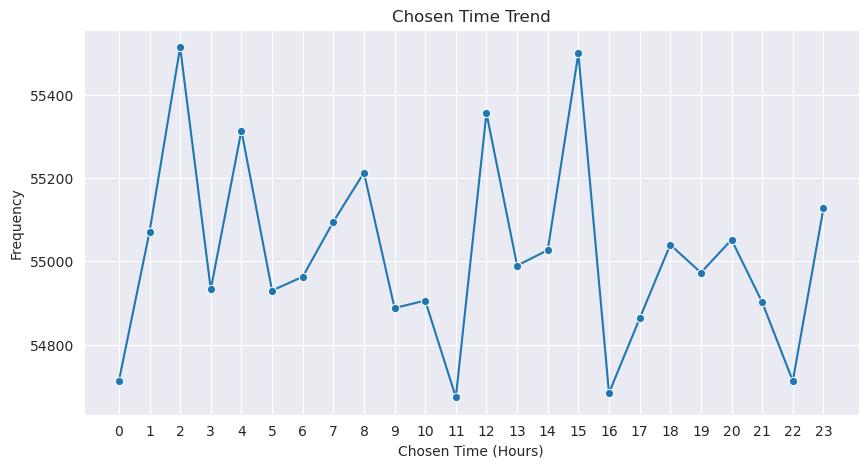
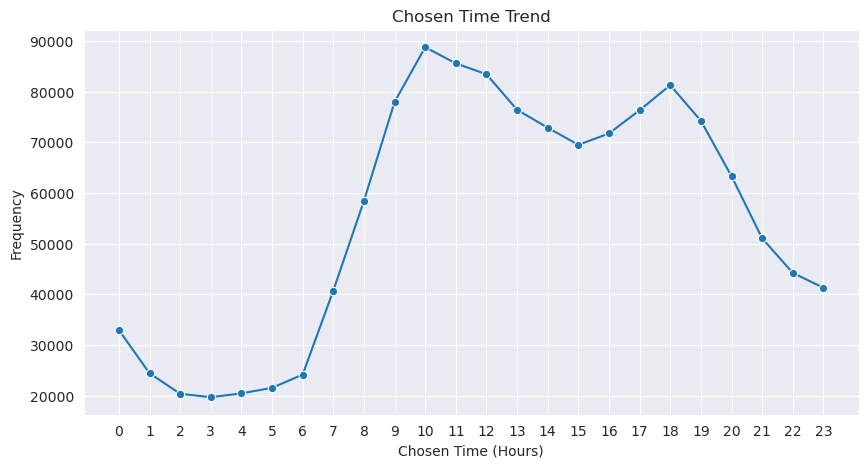
Fixed the time distribution to depict reality

diff --git a/post_generation_analysis/correct_traffic.py b/post_generation_analysis/correct_traffic.py
@@ -1,0 +1,68 @@
+from pymongo import MongoClient, UpdateOne
+import numpy as np
+import multiprocessing
+
+client = MongoClient("mongodb://sih24:sih24@localhost:27017/sih24?authSource=sih24")
+db = client["map_matching"]
+collection = db["paths_tree"]
+
+traffic_weights = np.array([
+    0.2951, 0.2243, 0.1916, 0.1787, 0.1787, 0.1916, 0.2243, 0.3708,
+    0.5455, 0.7098, 0.8121, 0.7894, 0.7648, 0.7098, 0.6607, 0.6479,
+    0.6479, 0.7098, 0.7382, 0.6796, 0.5805, 0.4745, 0.4045, 0.3708
+])
+traffic_weights /= traffic_weights.sum()  # Normalize
+
+NUM_WORKERS = 10
+
+def process_chunk(skip, limit):
+    """
+    Worker function to process a subset of MongoDB documents.
+    """
+    client = MongoClient("mongodb://sih24:sih24@localhost:27017/sih24?authSource=sih24")
+    db = client["map_matching"]
+    collection = db["paths_tree"]
+
+    cursor = collection.find({}, skip=skip, limit=limit)
+    bulk_updates = []
+
+    for index, doc in enumerate(cursor):
+        chosen_time = np.random.choice(range(24), p=traffic_weights)
+
+        start_time = doc.get("trajectory", {}).get("chosen_time", 0)
+        end_time = doc.get("trajectory", {}).get("end_time", (start_time + 1) % 24)
+
+        delta = (end_time - start_time) % 24
+        new_end_time = (chosen_time + delta) % 24  # Ensure 24-hour wraparound
+
+        bulk_updates.append(
+            UpdateOne(
+                {"_id": doc["_id"]},
+                {"$set": {"trajectory.chosen_time": chosen_time.item(), "trajectory.end_time": new_end_time.item()}}
+            )
+        )
+
+    if bulk_updates:
+        collection.bulk_write(bulk_updates)
+
+    print(f"Processed {limit} docs from skip {skip}")
+
+def main():
+    total_docs = collection.count_documents({})
+    chunk_size = total_docs // NUM_WORKERS  # Divide dataset evenly
+
+    processes = []
+    for i in range(NUM_WORKERS):
+        skip = i * chunk_size
+        limit = chunk_size if i < NUM_WORKERS - 1 else total_docs - skip  # Ensure last process gets remaining docs
+        p = multiprocessing.Process(target=process_chunk, args=(skip, limit))
+        processes.append(p)
+        p.start()
+
+    for p in processes:
+        p.join()
+
+    print("MongoDB documents updated successfully!")
+
+if __name__ == "__main__":
+    main()
